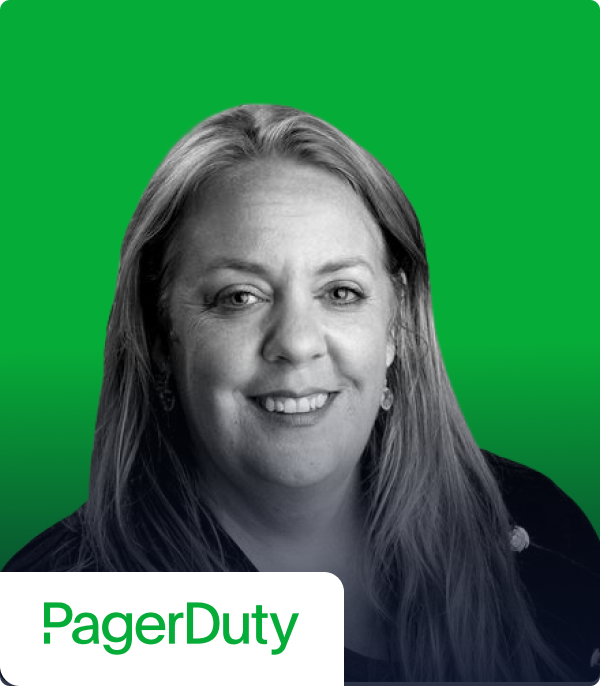
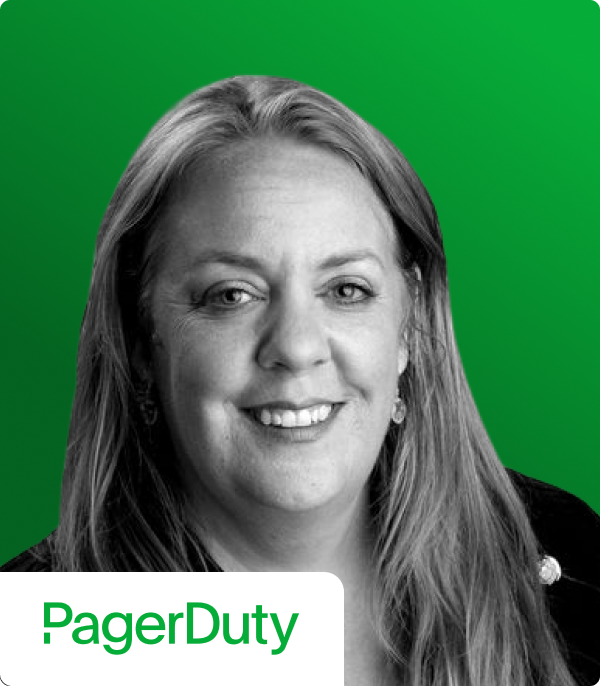
Adding gremlin as a sponsor, updating speaker images and fixes after review. (#101)
* Adding gremlin as a sponsor, updating speaker images and fixes after review.

diff --git a/app/client/src/components/JoinCarnival/index.tsx b/app/client/src/components/JoinCarnival/index.tsx
@@ -98,7 +98,7 @@ const JoinCarnival = () => {
 							marginBottom: "1rem",
 						}}
 					>
-						11AM-5PM EST
+						8AM &#8211; 4PM PT
 					</Typography>
 					<Button
 						className={classes.registerButtonOutline}
@@ -106,7 +106,7 @@ const JoinCarnival = () => {
 						variant="outlined"
 						onClick={() => {
 							window.open(
-								"https://calendar.google.com/calendar/r/eventedit?text=Chaos+Carnival&dates=20210210T110000/20210211T170000&details=For+updates,+Join:+https://join.slack.com/t/chaoscarnival"
+								"https://calendar.google.com/calendar/r/eventedit?text=Chaos+Carnival&dates=20210210T080000/20210211T160000&details=For+updates,+Join:+https://join.slack.com/t/chaoscarnival"
 							);
 						}}
 					>

diff --git a/app/client/src/components/Header/index.tsx b/app/client/src/components/Header/index.tsx
@@ -118,7 +118,7 @@ const MainHeader: React.FC<MainHeaderProps> = ({ inHomePage, linksActive }) => {
 						<Hidden smDown>
 							<div className={classes.headerDivCount}>
 								<CountDown
-									timeTillDate="02 10 2021, 11:00 am"
+									timeTillDate="02 10 2021, 8:00 am"
 									timeFormat="MM DD YYYY, h:mm a"
 									inHomePage={inHomePage}
 								/>
@@ -154,7 +154,6 @@ const MainHeader: React.FC<MainHeaderProps> = ({ inHomePage, linksActive }) => {
 										width: "100%",
 										backgroundColor: "transparent",
 										filter: "drop-shadow(0)",
-										// borderRadius: 4,
 										justifyContent: "center",
 									},
 								}}

diff --git a/app/client/src/pages/HomePage/styles.ts b/app/client/src/pages/HomePage/styles.ts
@@ -61,23 +61,23 @@ export const useStyles = makeStyles((theme) => ({
 	},
 
 	registerButton: {
-		height: "3.5rem",
+		height: "3.65rem",
 		width: "18.5rem",
 		[theme.breakpoints.down("xl")]: {
-			height: "3.5rem",
+			height: "3.65rem",
 			width: "18.5rem",
 		},
 		[theme.breakpoints.down("lg")]: {
-			height: "3rem",
+			height: "3.15rem",
 			width: "16.5rem",
 		},
 		[theme.breakpoints.down("md")]: {
-			height: "3rem",
+			height: "3.15rem",
 			width: "14.5rem",
 		},
 		[theme.breakpoints.down("sm")]: {
 			marginTop: 0,
-			height: "3rem",
+			height: "3.15rem",
 			width: "9.75rem",
 		},
 		[theme.breakpoints.down("xs")]: {

diff --git a/app/client/src/pages/AcknowledgementPage/index.tsx b/app/client/src/pages/AcknowledgementPage/index.tsx
@@ -82,7 +82,7 @@ function AcknowledgementPage() {
 										}}
 										onClick={() => {
 											window.open(
-												"https://calendar.google.com/calendar/r/eventedit?text=Chaos+Carnival&dates=20210210T110000/20210211T170000&details=For+updates,+Join:+https://join.slack.com/t/chaoscarnival"
+												"https://calendar.google.com/calendar/r/eventedit?text=Chaos+Carnival&dates=20210210T080000/20210211T160000&details=For+updates,+Join:+https://join.slack.com/t/chaoscarnival"
 											);
 										}}
 									>

diff --git a/app/client/src/components/SpeakersSection/index.tsx b/app/client/src/components/SpeakersSection/index.tsx
@@ -45,9 +45,8 @@ export function SpeakersSection() {
 				</div>
 
 				<div className={classes.speakersInfoText}>
-					We have exciting lineup for the 2 days of chaos carnival
-					featuring various chaos experts from AWS, Intuit, Mayadata,
-					Litmus, Elastic, Okteto, Percona and many more.
+					We have exciting lineup for the 2 days of Chaos Carnival
+					featuring various chaos experts from all over the globe.
 				</div>
 			</div>
 			<div className={classes.speakerRoot}>

diff --git a/app/client/src/components/JoinCarnival/timer.tsx b/app/client/src/components/JoinCarnival/timer.tsx
@@ -7,7 +7,7 @@ const Timer = () => {
 	const classes = useStyles();
 	const [now, setNow] = useState(moment());
 	const [over, setOver] = useState(false);
-	const then = moment("02 10 2021, 11:00 am", "MM DD YYYY, h:mm a");
+	const then = moment("02 10 2021, 8:00 am", "MM DD YYYY, h:mm a");
 	const days = then.diff(now, "days");
 	now.add(days, "days");
 	const hours = then.diff(now, "hours");

diff --git a/app/client/src/components/Sponsors/index.tsx b/app/client/src/components/Sponsors/index.tsx
@@ -33,6 +33,11 @@ const imgLink = [
 		alt: "Epsagon",
 		link: "https://epsagon.com",
 	},
+	{
+		img: "/icons/Gremlin.svg",
+		alt: "Gremlin",
+		link: "https://www.gremlin.com",
+	},
 ];
 
 const Sponsor = () => {
